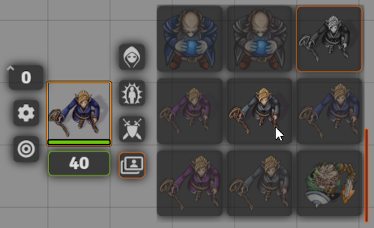
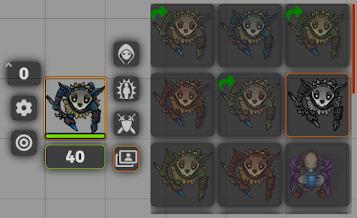
- Minor fixes for 0.8.x - Bumped version and updated README

diff --git a/styles/sideSelect.css b/styles/sideSelect.css
@@ -5,7 +5,7 @@
     top: 50%;
     transform: translate(0%, -50%);
     width: max-content;
-    max-width: 340px;
+    max-width: 350px;
     max-height: 350px;
     text-align: start;
     grid-template-columns: 100px 100px 100px;

diff --git a/README.md b/README.md
@@ -56,6 +56,8 @@ Enables extra button in the Token HUD which brings up all of the found art in a 
 
 !["Keyword Search"](./docs/token_hud.png)
 
+This art can be shared with players by right-clicking on the images, which makes them available in the Token HUD side menu without the need to enable the **Enable Token HUD button for everyone** setting. Shared artwork is indicated by a green arrow.
+
 #### Display as image?
 
 Controls whether the art in the preview is rendered as images or file names.

diff --git a/CHANGELOG.md b/CHANGELOG.md
@@ -1,3 +1,7 @@
+# 1.8.0
+
+* Implemented a workaround for Forge VTT Asset Folder search paths not being accessible to anyone beside the owner.
+* Token art variants in the Token HUD side menu can now be individually shared by right-clicking on them; making the art accessible to players without having to enable the '**Enable Token HUD button for everyone**' setting.
 # 1.7.0
 
 * Added a new setting to disable the prompt displayed in-between Portrait and Token art pop-ups.
